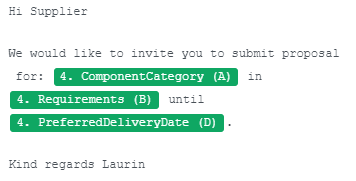
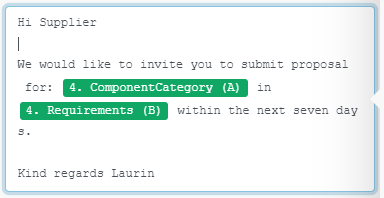
docu

Changed region(s): [[0.0, 0.0, 0.9888, 1.0]]

diff --git a/documentation/20200528_case description.md b/documentation/20200528_case description.md
@@ -58,7 +58,7 @@ Now each step in the Camunda process is explained in the following sub-chapters.
 
 <img src = "https://github.com/DigiBP/DigiBP_VacherinFribourgeois/blob/master/documentation/pictures/1.1.PNG?raw=true">
 
-## Check if preferred supplier is available
+## Check if preferred supplier is defined
 
 This task checks, whether there is an existing preferred supplier for the specified product category, received in the previous step. The variable componentCategory is injected into the decision table.  
 
@@ -88,7 +88,9 @@ This is the email being sent:
 
 <img src = "https://github.com/DigiBP/DigiBP_VacherinFribourgeois/blob/master/documentation/pictures/1.2%20message.png?raw=true">
 
-Hereby the first process is finished with "Supplier identified". 
+At the end the date/time, when the email was sent, is stored in a variable and saved in the Google sheet "supplierEmail".
+
+Afterwards the system waits for seven days (technically 2 minutes). During the seven days the suppliers have time to 
 
 ## Simulated supplier response (Integromat 2.1 and 2.2)
 
@@ -111,12 +113,13 @@ This could also be achieved in an actual case by providing a template for the Rf
 Let us explain this step-by step. Every incoming supplier response goes through this process.
 
 - Step 1: Email is being fetched and marked as read in the inbox
-- *Step 2: Reset a value (Never) ??*
-- Step 3-6: By the means of Regex expressions we extract **price** and **experience**
-- Step 7-8: **price** and **experience** are put into variables.
-- Step 9: The **business key** is being read from the corresponding Google sheet
-- Step 10: email address, price, experience and business key are sent to the Camunda process via an HTTP POST request 
-- --> To be extended!!!
+- Step 2:
+- Step 3:
+- Step 5-8: By the means of Regex expressions we extract **price** and **experience**
+- Step 5b:
+- Step 9-10: **price** and **experience** are put into variables.
+- Step 11: The **business key** is being read from the corresponding Google sheet
+- Step 12: email address, price, experience and business key are sent to the Camunda process via an HTTP POST request 
 
 ## Check industry experience of potential suppliers
 
@@ -159,7 +162,7 @@ Hereby, the second process is completed with "Supplier responses collected".
 
 As the pricing varies from tender to tender and the best supplier selection depends on the **price** and **industry  experience** combination, the best supplier selection remains a user task. The user chooses the best combination of **price** and **industry experience** from the Google sheet "supplierResponse", sheet "Shortlist". The selected best supplier email address is inserted to the form field "selectedEmail" in Camunda. 
 
---> insert Heroku-image
+--> insert Heroku-image and Excel image
 
 ## Invite supplier for contract negotiation via email and reject other suppliers (Integromat 3.1)
 
